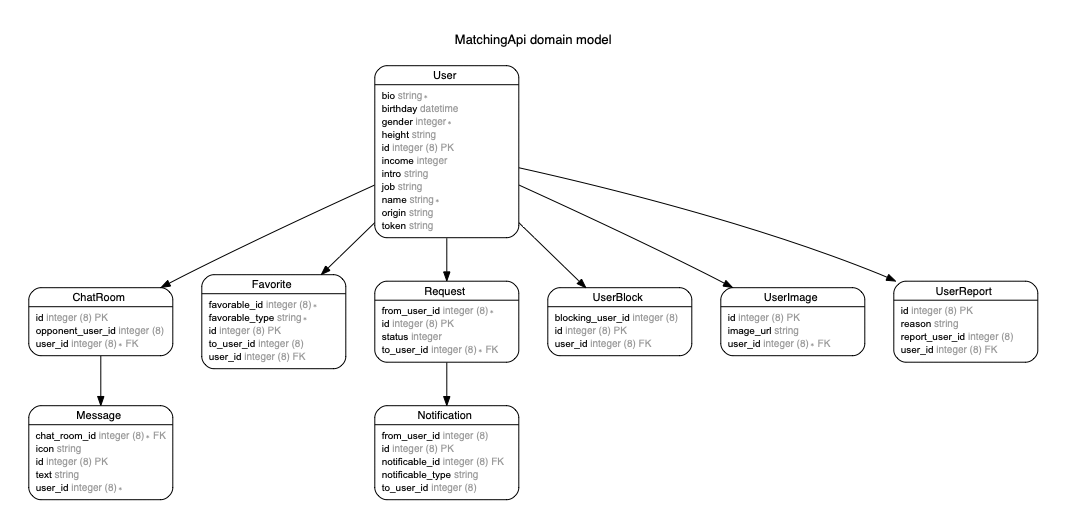
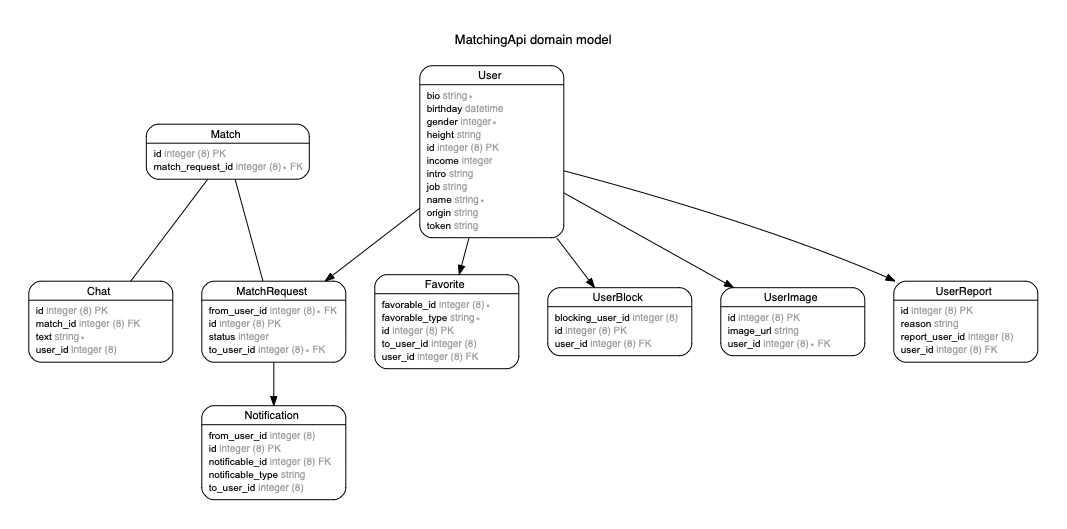
create match

diff --git a/db/schema.rb b/db/schema.rb
@@ -10,10 +10,20 @@
 #
 # It's strongly recommended that you check this file into your version control system.
 
-ActiveRecord::Schema.define(version: 2019_12_13_094106) do
+ActiveRecord::Schema.define(version: 2019_12_13_094520) do
 
   # These are extensions that must be enabled in order to support this database
   enable_extension "plpgsql"
+
+  create_table "chats", force: :cascade do |t|
+    t.bigint "match_id"
+    t.bigint "user_id"
+    t.string "text", null: false
+    t.datetime "created_at", null: false
+    t.datetime "updated_at", null: false
+    t.index ["match_id"], name: "index_chats_on_match_id"
+    t.index ["user_id"], name: "index_chats_on_user_id"
+  end
 
   create_table "favorites", force: :cascade do |t|
     t.bigint "user_id"
@@ -37,6 +47,13 @@ ActiveRecord::Schema.define(version: 2019_12_13_094106) do
     t.index ["to_user_id"], name: "index_match_requests_on_to_user_id"
   end
 
+  create_table "matches", force: :cascade do |t|
+    t.bigint "match_request_id", null: false
+    t.datetime "created_at", null: false
+    t.datetime "updated_at", null: false
+    t.index ["match_request_id"], name: "index_matches_on_match_request_id"
+  end
+
   create_table "notifications", force: :cascade do |t|
     t.bigint "from_user_id"
     t.bigint "to_user_id"
@@ -47,15 +64,6 @@ ActiveRecord::Schema.define(version: 2019_12_13_094106) do
     t.index ["notificable_id", "notificable_type"], name: "index_notifications_on_notificable_id_and_notificable_type", unique: true
     t.index ["notificable_type", "notificable_id"], name: "index_notifications_on_notificable_type_and_notificable_id"
     t.index ["to_user_id"], name: "index_notifications_on_to_user_id"
-  end
-
-  create_table "requests", force: :cascade do |t|
-    t.bigint "from_user_id"
-    t.bigint "to_user_id_id"
-    t.integer "status", default: 0
-    t.datetime "created_at", null: false
-    t.datetime "updated_at", null: false
-    t.index ["to_user_id_id"], name: "index_requests_on_to_user_id_id"
   end
 
   create_table "user_blocks", force: :cascade do |t|
@@ -83,6 +91,15 @@ ActiveRecord::Schema.define(version: 2019_12_13_094106) do
     t.index ["user_id"], name: "index_user_reports_on_user_id"
   end
 
+  create_table "user_requests", force: :cascade do |t|
+    t.bigint "from_user_id"
+    t.bigint "to_user_id_id"
+    t.integer "status", default: 0
+    t.datetime "created_at", null: false
+    t.datetime "updated_at", null: false
+    t.index ["to_user_id_id"], name: "index_user_requests_on_to_user_id_id"
+  end
+
   create_table "users", force: :cascade do |t|
     t.string "name"
     t.datetime "birthday"
@@ -98,12 +115,15 @@ ActiveRecord::Schema.define(version: 2019_12_13_094106) do
     t.datetime "updated_at", null: false
   end
 
+  add_foreign_key "chats", "matches"
+  add_foreign_key "chats", "users"
   add_foreign_key "favorites", "users"
   add_foreign_key "match_requests", "users", column: "from_user_id"
   add_foreign_key "match_requests", "users", column: "to_user_id"
+  add_foreign_key "matches", "match_requests"
   add_foreign_key "notifications", "users", column: "to_user_id"
-  add_foreign_key "requests", "users", column: "to_user_id_id"
   add_foreign_key "user_blocks", "users"
   add_foreign_key "user_images", "users"
   add_foreign_key "user_reports", "users"
+  add_foreign_key "user_requests", "users", column: "to_user_id_id"
 end

diff --git a/app/models/user.rb b/app/models/user.rb
@@ -7,8 +7,9 @@ class User < ApplicationRecord
 	has_many :favorites, dependent: :destroy
 	has_many :user_images, dependent: :destroy
 	has_many :messages
-	has_many :requests, foreign_key: "from_user_id", dependent: :destroy
-    has_many :requests, foreign_key: "to_user_id", dependent: :destroy
+
+    has_many :match_requests, foreign_key: "from_user_id", dependent: :destroy
+    has_many :match_requests, foreign_key: "to_user_id", dependent: :destroy
 
 
 	before_validation :assign_token

diff --git a/app/models/match_request.rb b/app/models/match_request.rb
@@ -1,2 +1,11 @@
 class MatchRequest < ApplicationRecord
+	validates :to_user_id, :uniqueness => {:scope => :from_user_id}
+    validates :from_user_id, :to_user_id, presence: true
+
+    belongs_to :match, foreign_key: "match_request_id"
+
+    belongs_to :user, foreign_key: "to_user_id"
+    belongs_to :user, foreign_key: "from_user_id"
+
+    has_many :notifications, as: :notificable
 end

diff --git a/db/migrate/20191213094520_create_chats.rb b/db/migrate/20191213094520_create_chats.rb
@@ -1,0 +1,11 @@
+class CreateChats < ActiveRecord::Migration[5.2]
+  def change
+    create_table :chats do |t|
+      t.references :match, foreign_key: true
+      t.references :user, foreign_key: true
+      t.string :text, :null => false
+
+      t.timestamps
+    end
+  end
+end

diff --git a/db/migrate/20191213094454_create_matches.rb b/db/migrate/20191213094454_create_matches.rb
@@ -1,0 +1,9 @@
+class CreateMatches < ActiveRecord::Migration[5.2]
+  def change
+    create_table :matches do |t|
+      t.references :match_request, foreign_key: true, :null => false
+
+      t.timestamps
+    end
+  end
+end

diff --git a/app/models/match.rb b/app/models/match.rb
@@ -1,0 +1,7 @@
+class Match < ApplicationRecord
+	has_one :chat, dependent: :destroy
+    has_one :match_request
+
+
+    validates :match_request_id, presence: true
+end

diff --git a/test/models/match_test.rb b/test/models/match_test.rb
@@ -1,0 +1,7 @@
+require 'test_helper'
+
+class MatchTest < ActiveSupport::TestCase
+  # test "the truth" do
+  #   assert true
+  # end
+end

diff --git a/test/models/chat_test.rb b/test/models/chat_test.rb
@@ -1,0 +1,7 @@
+require 'test_helper'
+
+class ChatTest < ActiveSupport::TestCase
+  # test "the truth" do
+  #   assert true
+  # end
+end

diff --git a/app/models/chat.rb b/app/models/chat.rb
@@ -1,0 +1,3 @@
+class Chat < ApplicationRecord
+	belongs_to :match
+end
